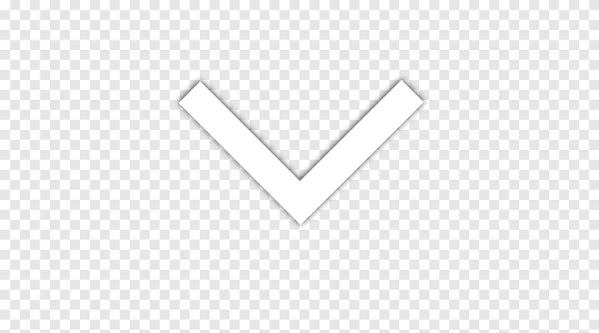
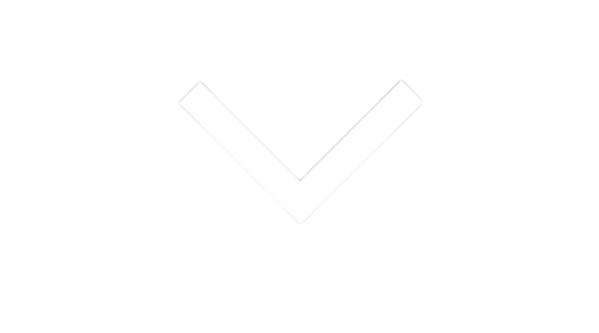
styling header

diff --git a/style.css b/style.css
@@ -1,0 +1,54 @@
+*{
+    padding: 0;
+    margin: 0;
+    box-sizing: border-box;
+}
+body{
+    font-family: "McKinsey Sans", "Helvetica Neue", Calibri, Corbel, Helvetica, Roboto, Droid, sans-serif;
+    width: 100%;
+    height: 100vh;
+    color: white;
+    background-color: black;
+}
+
+section.nav-bar nav{
+    display: flex;
+    justify-content: space-between;
+    height: 110px;
+}
+
+section.nav-bar nav .right-side{
+    display: flex;
+    align-items: center;
+
+}
+section.nav-bar nav .right-side img.logo{
+    width: 400px;
+    height: 200px;
+}
+.menu{
+    width: 25px;
+    height: 25px;
+    background: transparent;
+    border: none;
+    display: flex;
+    padding: 3px 0;
+    flex-direction: column;
+    justify-content: space-between;
+    cursor: pointer;
+}
+.menu span{
+    width: 25px;
+    background-color: white;
+    height: 3px;
+    display: block;
+}
+
+.logo{
+    font-size: 30px;
+    font-family: Georgia, 'Times New Roman', Times, serif;
+    line-height: 19px;
+    width: 200px;
+}
+
+

diff --git a/index.html b/index.html
@@ -9,10 +9,13 @@
 <body>
     <section class="nav-bar">
         <nav>
-            <right-side>
-                <img src="menu.jpg" class="menu">
-                <img src="logo.png"class="logo">
-            </right-side>
+            <div class="left-side">
+                <div class="menu"><span></span><span></span><span></span></div>
+                <div class="logo">
+                    <p class="first">McKinsey</p>
+                    <p class="second">& Company</p>
+                </div>
+            </div>
             <div class="nav-links">
                 <ul>
                     <li>Industries <img src="down-arrow.png"></li>
@@ -24,9 +27,9 @@
                     <li>Mckinsey Blog</li>
                 </ul>
             </div>
-            <div class="left-side">
+            <div class="right-side">
                 <p>Sign In | Subscribe</p>
-                <img src="search-icon.jpg">
+                <img src="search.png">
             </div>
         </nav>
     </section>
